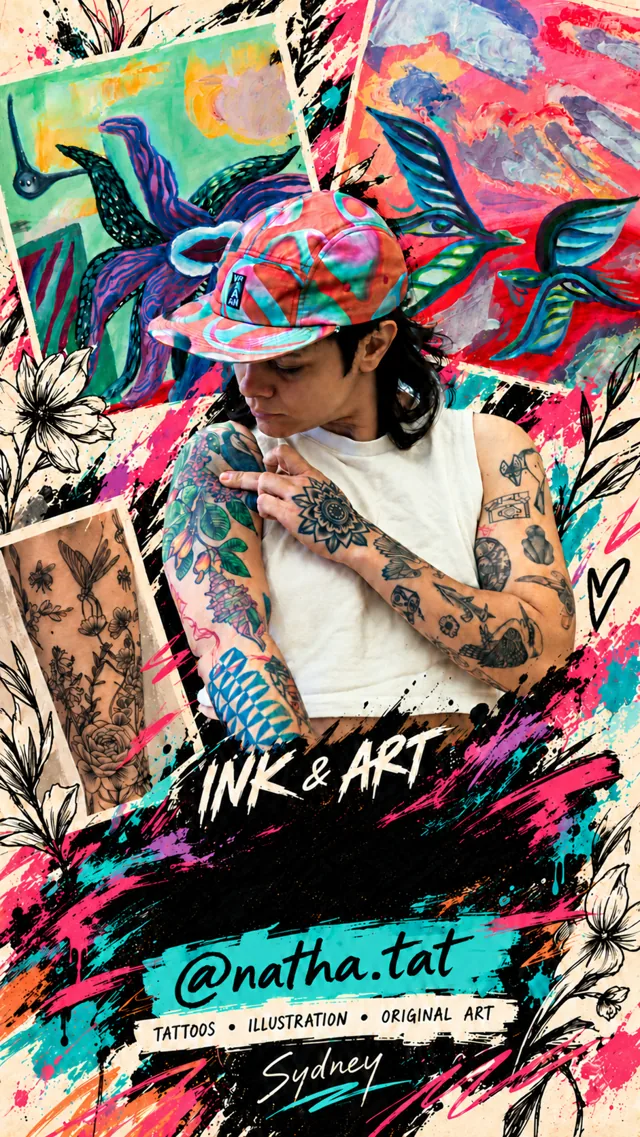
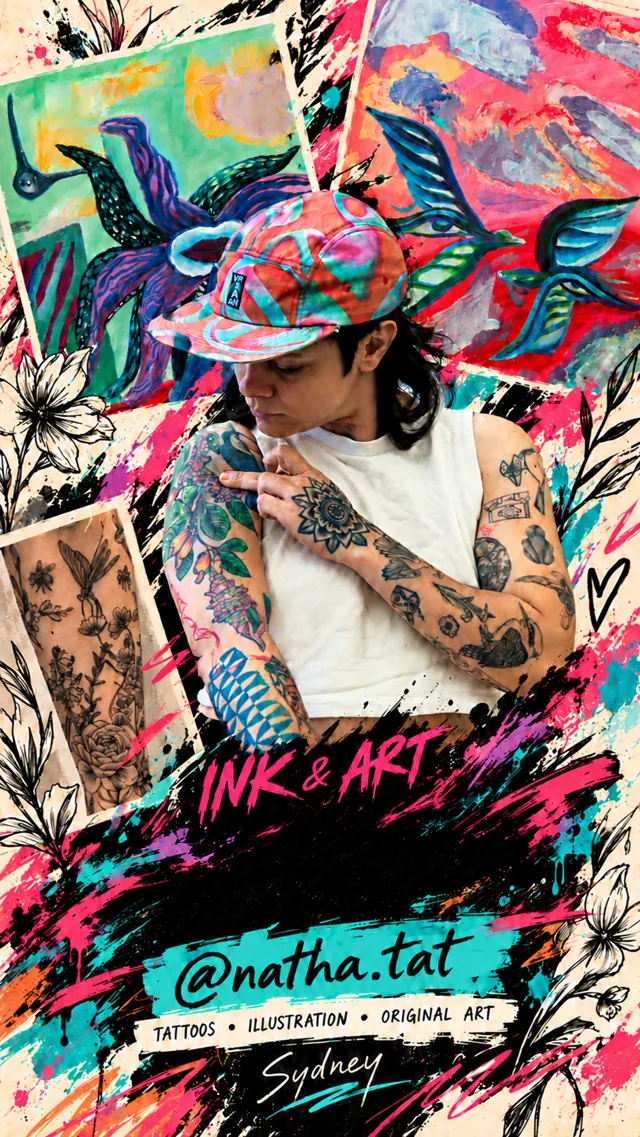
Add files via upload

diff --git a/Natha/index.html b/Natha/index.html
@@ -1,4 +1,4 @@
-<!doctype html><html lang="en-AU"><head><meta charset="utf-8"><meta name="viewport" content="width=device-width, initial-scale=1, viewport-fit=cover"><meta name="theme-color" content="#071a25"><title>Tattoos, art & the artist — Natha.tat</title><meta name="description" content="Sydney tattoo artist, illustrator and drafter. Explore Nathaly’s tattoo styles, creative background and original art."><meta property="og:title" content="Tattoos, art & the artist — Natha.tat"><meta property="og:description" content="Sydney tattoo artist, illustrator and drafter. Explore Nathaly’s tattoo styles, creative background and original art."><meta property="og:type" content="website"><meta property="og:url" content="https://natha-artist-card.equalcocoa4.chatgpt.site/"><meta property="og:image" content="https://natha-artist-card.equalcocoa4.chatgpt.site/assets/natha-poster-941.webp"><link rel="icon" type="image/svg+xml" href="assets/favicon.svg"><link rel="preload" as="image" href="assets/natha-poster-client-640.webp" imagesrcset="assets/natha-poster-client-640.webp 640w, assets/natha-poster-client-941.webp 941w" imagesizes="(max-width: 900px) 94vw, 480px" fetchpriority="high"><link rel="stylesheet" href="fonts.css"><link rel="stylesheet" href="styles.css?v=3"><link rel="stylesheet" href="poster.css?v=2"><link rel="stylesheet" href="hub.css?v=4"><link rel="stylesheet" href="portfolio.css?v=5"></head><body class="home-page" id="top"><a class="skip-link" href="#main-content">Skip to content</a><div class="ambient" aria-hidden="true"><span></span><span></span></div><main id="main-content" class="card home-card"><section class="poster-wrap" aria-labelledby="artist-name"><h1 id="artist-name" class="sr-only">Natha.tat — Nathaly, tattoo artist, illustrator and drafter in Sydney</h1><div class="poster-frame"><a class="poster-gallery-trigger" href="tattoos.html" aria-label="Explore Nathaly’s tattoo portfolio"><img class="natha-poster" src="assets/natha-poster-client-640.webp" srcset="assets/natha-poster-client-640.webp 640w, assets/natha-poster-client-941.webp 941w" sizes="(max-width: 900px) 94vw, 480px" width="941" height="1672" fetchpriority="high" decoding="async" alt="Nathaly’s colourful artist poster, combining her portrait, painted birds, botanical tattoo details, an X emblem on her shirt and her official white Natha.tat wordmark."></a><img class="poster-shirt-x" src="assets/natha-client-x.jpg" width="124" height="120" alt="" aria-hidden="true"><div class="poster-brand-lockup" aria-hidden="true"><img class="poster-logo-art" src="assets/natha-client-logo.png" width="352" height="120" alt=""></div><div class="poster-flow" aria-hidden="true"></div><div class="poster-light" aria-hidden="true"></div><button class="icon-button share-button" type="button" aria-label="Share Natha’s card"><svg viewBox="0 0 24 24" aria-hidden="true"><path d="M12 15V3m-4 4 4-4 4 4M5 12v7a2 2 0 0 0 2 2h10a2 2 0 0 0 2-2v-7"/></svg></button></div><a class="meet-artist" href="about.html">MEET NATHALY ↗</a></section><section class="connect home-intro" aria-label="Meet Nathaly"><span class="eyebrow">TATTOO ARTIST · ILLUSTRATOR · DRAFTER</span><h2 class="home-headline">ART WITH MEANING.<br><span>INK WITH SOUL.</span></h2><p class="intro-copy">An artist’s eye. A drafter’s precision.<br>Personal stories, drawn on skin.</p><a class="booking-link" href="https://venue.ink/@natha.tat" target="_blank" rel="noopener noreferrer"><span>BOOK A TATTOO SESSION</span><span aria-hidden="true">↗</span></a><a class="portfolio-primary" href="tattoos.html">EXPLORE TATTOOS <span aria-hidden="true">↗</span></a><nav class="quick-links" aria-label="Portfolio and social links"><a class="quick-link" href="tattoos.html"><span class="quick-icon">✳</span><span>Tattoos</span></a><a class="quick-link" href="about.html"><span class="quick-icon"><svg viewBox="0 0 24 24" aria-hidden="true"><circle cx="12" cy="8" r="4"/><path d="M4 21v-2a8 8 0 0 1 16 0v2"/></svg></span><span>My story</span></a><a class="quick-link" href="https://www.instagram.com/Natha.tat" target="_blank" rel="noopener noreferrer"><span class="quick-icon"><svg viewBox="0 0 24 24" aria-hidden="true"><rect x="3" y="3" width="18" height="18" rx="5"/><circle cx="12" cy="12" r="4"/><path d="M17.5 6.5h.01"/></svg></span><span>Instagram</span></a><a class="quick-link" href="https://wa.me/61426930105" target="_blank" rel="noopener noreferrer"><span class="quick-icon"><svg viewBox="0 0 24 24" aria-hidden="true"><path d="m3 21 1.5-5A9 9 0 1 1 8 20L3 21Z"/><path d="M8 8c0 4 4 8 8 8"/></svg></span><span>WhatsApp</span></a></nav><section class="direct-contact" id="connect" aria-label="Contact Nathaly"><h3>Let’s talk.</h3><p>A tattoo idea, a question or a creative collaboration?</p><button class="email-contact" type="button" data-open="contact-dialog"><svg viewBox="0 0 24 24" aria-hidden="true"><rect x="3" y="5" width="18" height="14" rx="2"/><path d="m3 6 9 7 9-7"/></svg><span>Contact Nathaly <span class="email-address">Write your message here</span></span><span aria-hidden="true">↗</span></button><div class="phone-contact"><a href="tel:+61426930105">Call 0426 930 105 ↗</a><a href="sms:+61426930105">Send an SMS ↗</a></div><div class="studio-location"><span class="eyebrow">VISIT THE STUDIO</span><strong>Understairs Ink</strong><address>Shop 7 &amp; 8, 60 Applebee Street<br>St Peters NSW 2044</address><a class="text-link" href="https://maps.app.goo.gl/4BwaLYTXd6XYP9GZA?g_st=ic" target="_blank" rel="noopener noreferrer">Get directions on Google Maps ↗</a></div></section></section><section class="hub-section home-work" aria-labelledby="selected-title"><div class="section-heading"><div><span class="eyebrow">SELECTED TATTOOS</span><h2 id="selected-title">Stories <em>on skin.</em></h2></div><a class="small-link" href="tattoos.html">All tattoos ↗</a></div><div class="portfolio-grid home-grid" data-portfolio-preview="ink" data-limit="6"></div><a class="text-link" href="tattoos.html">Explore by tattoo style ↗</a></section><section class="hub-section story-teaser"><img src="assets/nathaly-studio.webp" alt="Nathaly drawing at her studio desk." width="800" height="534" loading="lazy" decoding="async"><div><span class="eyebrow">THE PERSON BEHIND THE LINES</span><h2>From drawing plans<br>to <em>drawing on skin.</em></h2><p>My first paid work was in technical drawing. Studying engineering and architecture shaped how I think about structure, space and detail. Tattooing is where that precision meets my life as an artist.</p><a class="text-link" href="about.html">Explore my background &amp; practice ↗</a></div></section><section class="hub-section beyond-ink"><span class="eyebrow">BEYOND THE TATTOO</span><h2>The art <em>continues.</em></h2><div class="editorial-links"><a href="art.html"><span>01 / ART &amp; ILLUSTRATION</span><h3>Paint, paper &amp; possibilities.</h3><p>Explore my paintings, drawings and creative practice.</p><b aria-hidden="true">↗</b></a><a href="shop.html"><span>02 / ART SHOP</span><h3>Find a piece to take home.</h3><p>Browse available original art, prints and stickers.</p><b aria-hidden="true">↗</b></a></div></section><footer class="site-footer"><div class="footer-brand"><a class="official-brand" href="index.html" aria-label="Natha.tat home"><img src="assets/natha-client-logo.png" width="352" height="120" alt="Natha.tat" decoding="async"></a><span>SYDNEY, AUSTRALIA</span></div><div><a href="natha-tat.vcf" download="Natha-Tat.vcf">Save contact</a><a href="https://www.instagram.com/Natha.tat" target="_blank" rel="noopener noreferrer">Instagram ↗</a><a href="https://wa.me/61426930105" target="_blank" rel="noopener noreferrer">WhatsApp ↗</a></div></footer></main><dialog id="contact-dialog" class="sheet contact-sheet" aria-labelledby="contact-title"><div class="sheet-scroll">
+<!doctype html><html lang="en-AU"><head><meta charset="utf-8"><meta name="viewport" content="width=device-width, initial-scale=1, viewport-fit=cover"><meta name="theme-color" content="#071a25"><title>Tattoos, art & the artist — Natha.tat</title><meta name="description" content="Sydney tattoo artist, illustrator and drafter. Explore Nathaly’s tattoo styles, creative background and original art."><meta property="og:title" content="Tattoos, art & the artist — Natha.tat"><meta property="og:description" content="Sydney tattoo artist, illustrator and drafter. Explore Nathaly’s tattoo styles, creative background and original art."><meta property="og:type" content="website"><meta property="og:url" content="https://natha-artist-card.equalcocoa4.chatgpt.site/"><meta property="og:image" content="https://natha-artist-card.equalcocoa4.chatgpt.site/assets/natha-poster-941.webp"><link rel="icon" type="image/svg+xml" href="assets/favicon.svg"><link rel="preload" as="image" href="assets/natha-poster-client-640.webp?v=pink1" imagesrcset="assets/natha-poster-client-640.webp?v=pink1 640w, assets/natha-poster-client-941.webp?v=pink1 941w" imagesizes="(max-width: 900px) 94vw, 480px" fetchpriority="high"><link rel="stylesheet" href="fonts.css"><link rel="stylesheet" href="styles.css?v=3"><link rel="stylesheet" href="poster.css?v=2"><link rel="stylesheet" href="hub.css?v=4"><link rel="stylesheet" href="portfolio.css?v=5"></head><body class="home-page" id="top"><a class="skip-link" href="#main-content">Skip to content</a><div class="ambient" aria-hidden="true"><span></span><span></span></div><main id="main-content" class="card home-card"><section class="poster-wrap" aria-labelledby="artist-name"><h1 id="artist-name" class="sr-only">Natha.tat — Nathaly, tattoo artist, illustrator and drafter in Sydney</h1><div class="poster-frame"><a class="poster-gallery-trigger" href="tattoos.html" aria-label="Explore Nathaly’s tattoo portfolio"><img class="natha-poster" src="assets/natha-poster-client-640.webp?v=pink1" srcset="assets/natha-poster-client-640.webp?v=pink1 640w, assets/natha-poster-client-941.webp?v=pink1 941w" sizes="(max-width: 900px) 94vw, 480px" width="941" height="1672" fetchpriority="high" decoding="async" alt="Nathaly’s colourful artist poster, combining her portrait, painted birds, botanical tattoo details, an X emblem on her shirt and her official white Natha.tat wordmark."></a><img class="poster-shirt-x" src="assets/natha-client-x.jpg" width="124" height="120" alt="" aria-hidden="true"><div class="poster-brand-lockup" aria-hidden="true"><img class="poster-logo-art" src="assets/natha-client-logo.png" width="352" height="120" alt=""></div><div class="poster-flow" aria-hidden="true"></div><div class="poster-light" aria-hidden="true"></div><button class="icon-button share-button" type="button" aria-label="Share Natha’s card"><svg viewBox="0 0 24 24" aria-hidden="true"><path d="M12 15V3m-4 4 4-4 4 4M5 12v7a2 2 0 0 0 2 2h10a2 2 0 0 0 2-2v-7"/></svg></button></div><a class="meet-artist" href="about.html">MEET NATHALY ↗</a></section><section class="connect home-intro" aria-label="Meet Nathaly"><span class="eyebrow">TATTOO ARTIST · ILLUSTRATOR · DRAFTER</span><h2 class="home-headline">ART WITH MEANING.<br><span>INK WITH SOUL.</span></h2><p class="intro-copy">An artist’s eye. A drafter’s precision.<br>Personal stories, drawn on skin.</p><a class="booking-link" href="https://venue.ink/@natha.tat" target="_blank" rel="noopener noreferrer"><span>BOOK A TATTOO SESSION</span><span aria-hidden="true">↗</span></a><a class="portfolio-primary" href="tattoos.html">EXPLORE TATTOOS <span aria-hidden="true">↗</span></a><nav class="quick-links" aria-label="Portfolio and social links"><a class="quick-link" href="tattoos.html"><span class="quick-icon">✳</span><span>Tattoos</span></a><a class="quick-link" href="about.html"><span class="quick-icon"><svg viewBox="0 0 24 24" aria-hidden="true"><circle cx="12" cy="8" r="4"/><path d="M4 21v-2a8 8 0 0 1 16 0v2"/></svg></span><span>My story</span></a><a class="quick-link" href="https://www.instagram.com/Natha.tat" target="_blank" rel="noopener noreferrer"><span class="quick-icon"><svg viewBox="0 0 24 24" aria-hidden="true"><rect x="3" y="3" width="18" height="18" rx="5"/><circle cx="12" cy="12" r="4"/><path d="M17.5 6.5h.01"/></svg></span><span>Instagram</span></a><a class="quick-link" href="https://wa.me/61426930105" target="_blank" rel="noopener noreferrer"><span class="quick-icon"><svg viewBox="0 0 24 24" aria-hidden="true"><path d="m3 21 1.5-5A9 9 0 1 1 8 20L3 21Z"/><path d="M8 8c0 4 4 8 8 8"/></svg></span><span>WhatsApp</span></a></nav><section class="direct-contact" id="connect" aria-label="Contact Nathaly"><h3>Let’s talk.</h3><p>A tattoo idea, a question or a creative collaboration?</p><button class="email-contact" type="button" data-open="contact-dialog"><svg viewBox="0 0 24 24" aria-hidden="true"><rect x="3" y="5" width="18" height="14" rx="2"/><path d="m3 6 9 7 9-7"/></svg><span>Contact Nathaly <span class="email-address">Write your message here</span></span><span aria-hidden="true">↗</span></button><div class="phone-contact"><a href="tel:+61426930105">Call 0426 930 105 ↗</a><a href="sms:+61426930105">Send an SMS ↗</a></div><div class="studio-location"><span class="eyebrow">VISIT THE STUDIO</span><strong>Understairs Ink</strong><address>Shop 7 &amp; 8, 60 Applebee Street<br>St Peters NSW 2044</address><a class="text-link" href="https://maps.app.goo.gl/4BwaLYTXd6XYP9GZA?g_st=ic" target="_blank" rel="noopener noreferrer">Get directions on Google Maps ↗</a></div></section></section><section class="hub-section home-work" aria-labelledby="selected-title"><div class="section-heading"><div><span class="eyebrow">SELECTED TATTOOS</span><h2 id="selected-title">Stories <em>on skin.</em></h2></div><a class="small-link" href="tattoos.html">All tattoos ↗</a></div><div class="portfolio-grid home-grid" data-portfolio-preview="ink" data-limit="6"></div><a class="text-link" href="tattoos.html">Explore by tattoo style ↗</a></section><section class="hub-section story-teaser"><img src="assets/nathaly-studio.webp" alt="Nathaly drawing at her studio desk." width="800" height="534" loading="lazy" decoding="async"><div><span class="eyebrow">THE PERSON BEHIND THE LINES</span><h2>From drawing plans<br>to <em>drawing on skin.</em></h2><p>My first paid work was in technical drawing. Studying engineering and architecture shaped how I think about structure, space and detail. Tattooing is where that precision meets my life as an artist.</p><a class="text-link" href="about.html">Explore my background &amp; practice ↗</a></div></section><section class="hub-section beyond-ink"><span class="eyebrow">BEYOND THE TATTOO</span><h2>The art <em>continues.</em></h2><div class="editorial-links"><a href="art.html"><span>01 / ART &amp; ILLUSTRATION</span><h3>Paint, paper &amp; possibilities.</h3><p>Explore my paintings, drawings and creative practice.</p><b aria-hidden="true">↗</b></a><a href="shop.html"><span>02 / ART SHOP</span><h3>Find a piece to take home.</h3><p>Browse available original art, prints and stickers.</p><b aria-hidden="true">↗</b></a></div></section><footer class="site-footer"><div class="footer-brand"><a class="official-brand" href="index.html" aria-label="Natha.tat home"><img src="assets/natha-client-logo.png" width="352" height="120" alt="Natha.tat" decoding="async"></a><span>SYDNEY, AUSTRALIA</span></div><div><a href="natha-tat.vcf" download="Natha-Tat.vcf">Save contact</a><a href="https://www.instagram.com/Natha.tat" target="_blank" rel="noopener noreferrer">Instagram ↗</a><a href="https://wa.me/61426930105" target="_blank" rel="noopener noreferrer">WhatsApp ↗</a></div></footer></main><dialog id="contact-dialog" class="sheet contact-sheet" aria-labelledby="contact-title"><div class="sheet-scroll">
     <header class="sheet-header"><span class="eyebrow">LET’S MAKE SOMETHING PERSONAL</span><button class="icon-button" type="button" data-close aria-label="Close enquiry form">×</button></header>
     <h2 id="contact-title">Hey Nathaly, <em>I have an idea.</em></h2>
     <p>Tell me what you have in mind. Leave your email so I can get back to you.</p>
